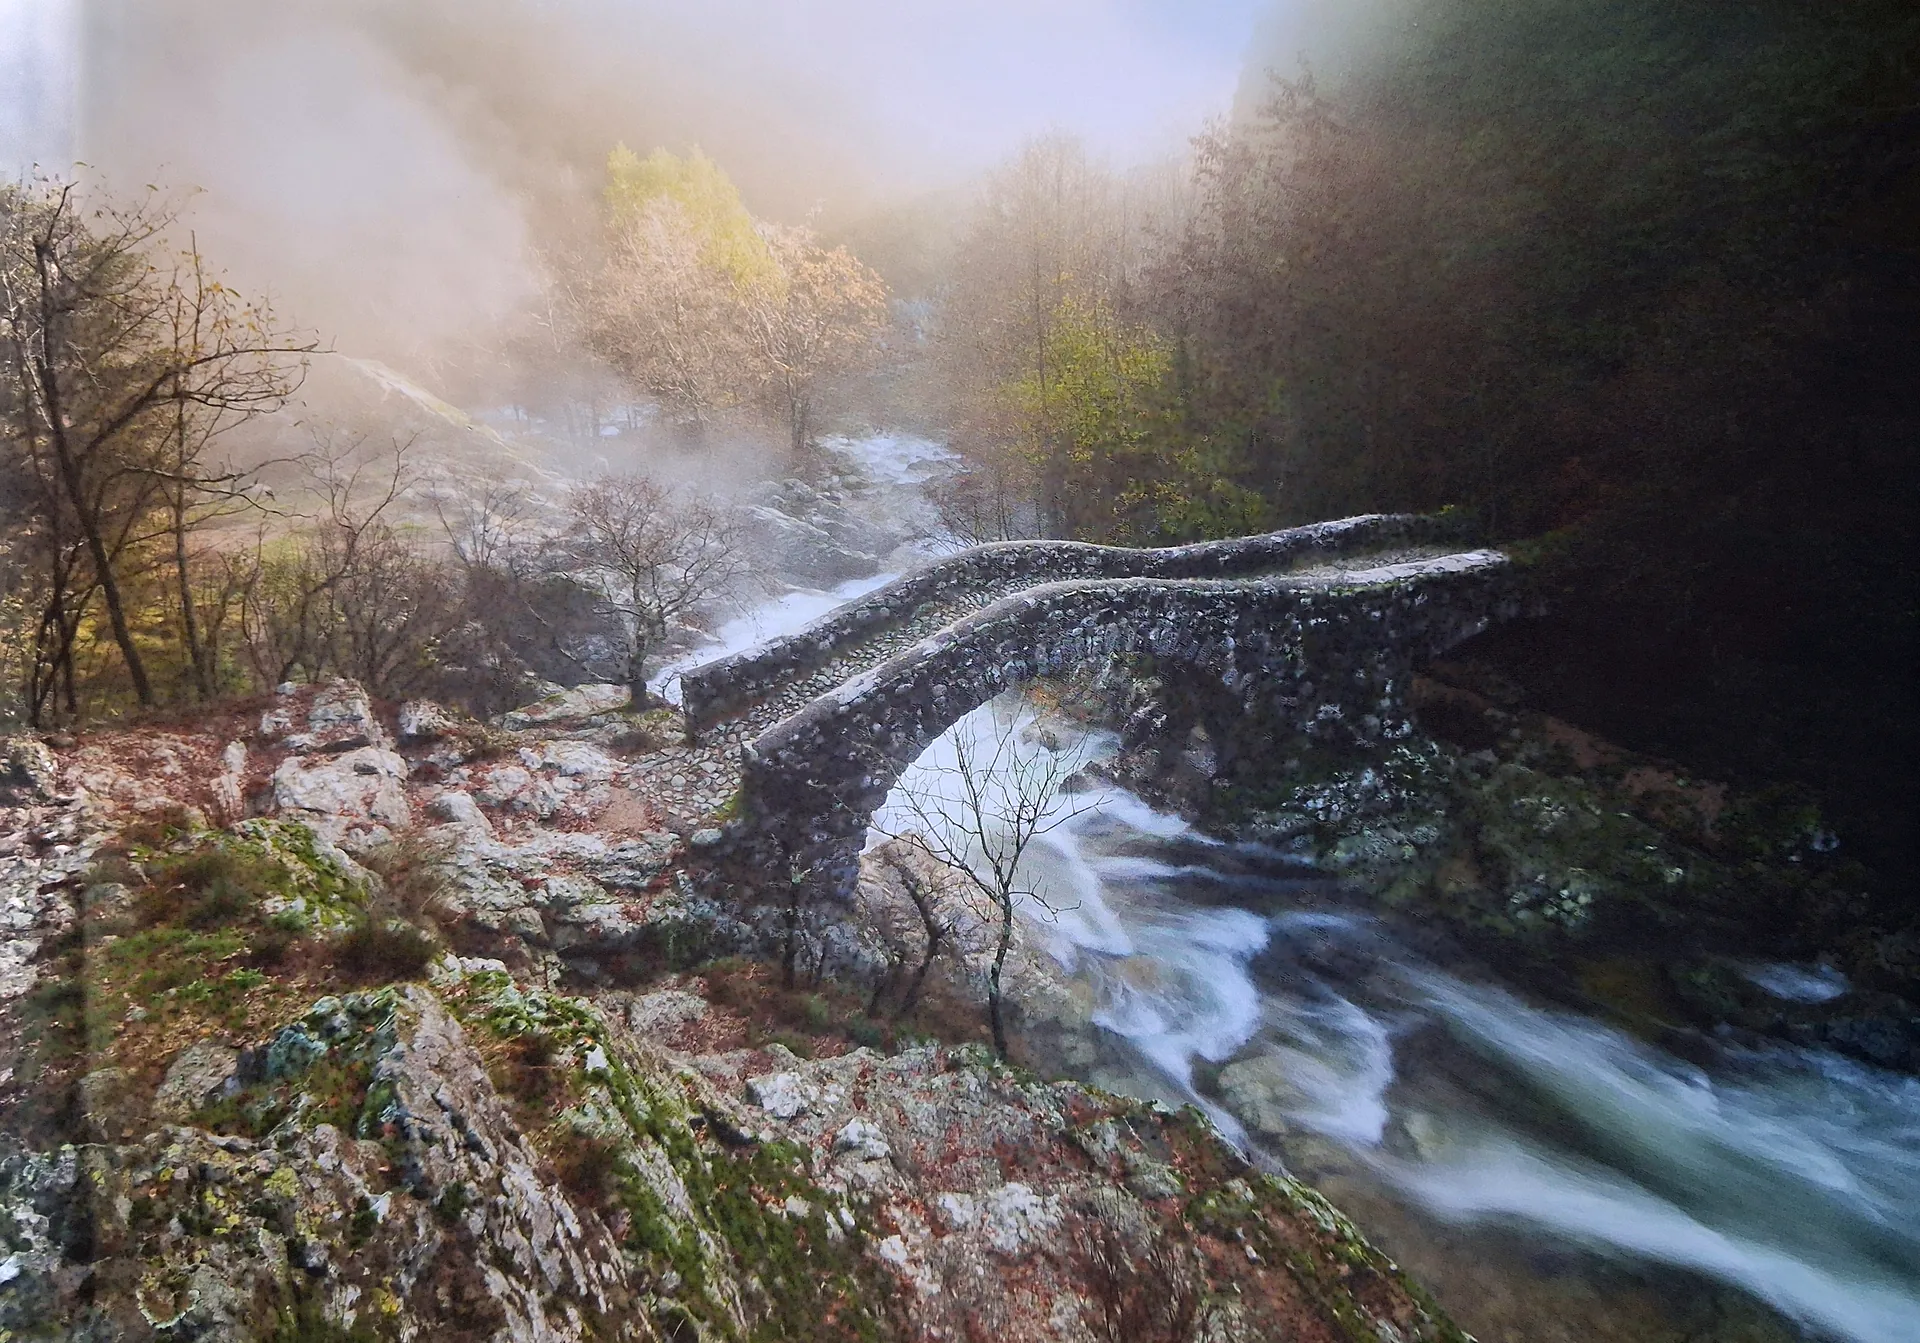
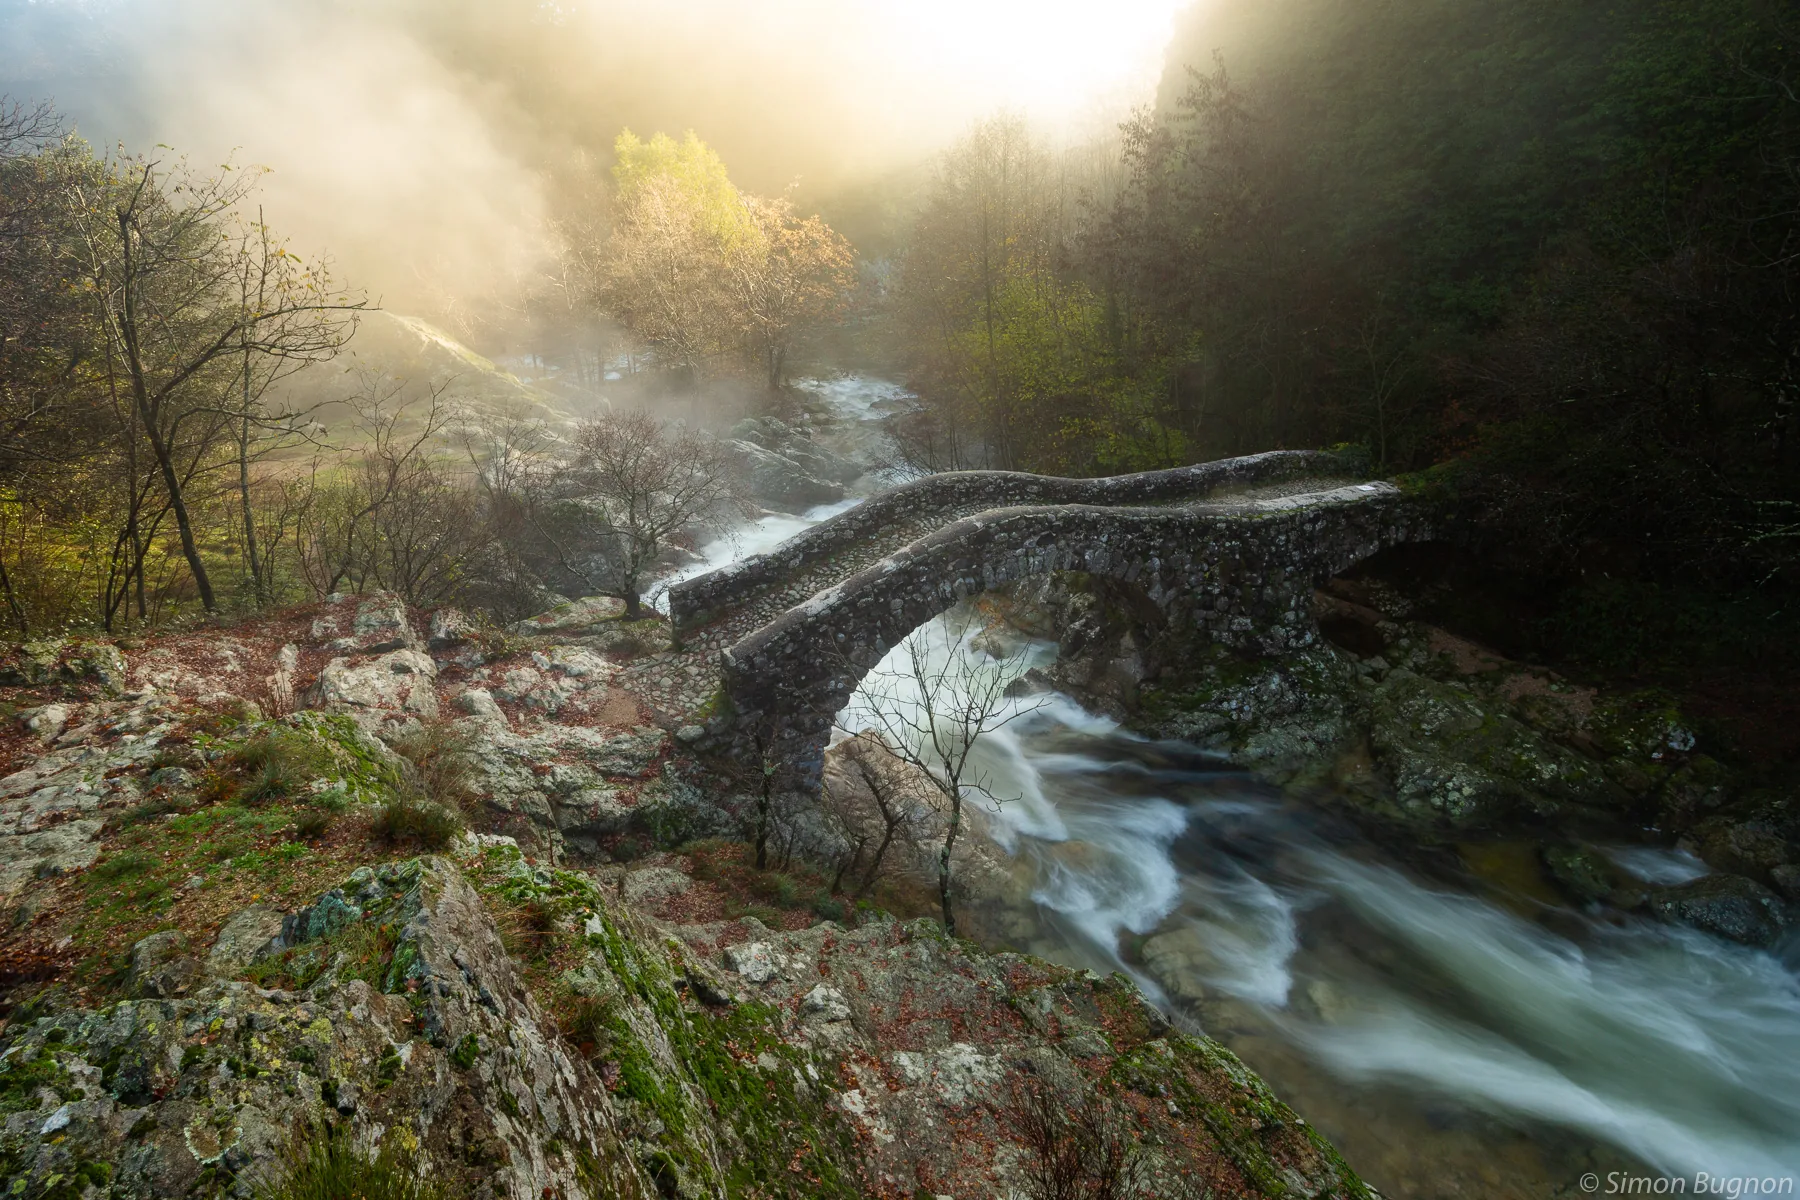
hero + texte

diff --git a/index.html b/index.html
@@ -28,9 +28,9 @@
     :root {
       --clay:    #C8A882;
       --clay-dk: #9C7A52;
-      --sand:    #F2EAE0;
-      --sand-dk: #E8DDD0;
-      --fog:     #F8F5F0;
+      --sand:    #F8F2E9;
+      --sand-dk: #F1E9DC;
+      --fog:     #FDFBF6;
       --moss:    #2AA7AF;
       --moss-dk: #138992;
       --ink:     #1F1A15;
@@ -50,7 +50,7 @@
     nav {
       position: fixed; inset: 0 0 auto 0; z-index: 200;
       height: 68px; display: flex; align-items: center;
-      background: rgba(248,245,240,.94);
+      background: rgba(253,251,246,.94);
       backdrop-filter: blur(10px);
       border-bottom: 1px solid var(--line);
       transition: box-shadow .3s;
@@ -145,8 +145,8 @@
       position: absolute;
       inset: 0;
       background:
-        linear-gradient(120deg, rgba(20,15,10,.78) 0%, rgba(20,15,10,.42) 55%, rgba(20,15,10,.15) 100%),
-        linear-gradient(to top, rgba(20,15,10,.55) 0%, transparent 45%);
+        linear-gradient(120deg, rgba(20,15,10,.55) 0%, rgba(20,15,10,.26) 55%, rgba(20,15,10,.06) 100%),
+        linear-gradient(to top, rgba(20,15,10,.48) 0%, transparent 45%);
     }
     .hero-body {
       position: relative;
@@ -445,6 +445,9 @@
     .val-item { background: var(--fog); border: 1px solid var(--line); border-radius: 4px; padding: 1.1rem 1.25rem; }
     .val-item h4 { font-size: .78rem; font-weight: 600; margin-bottom: .25rem; color: var(--moss-dk); }
     .val-item p { font-size: .74rem; color: var(--mid); line-height: 1.5; }
+    .form-list { margin-top: 1.75rem; list-style: none; display: flex; flex-direction: column; gap: .9rem; }
+    .form-list li { position: relative; padding-left: 1.6rem; font-size: .88rem; color: var(--mid); line-height: 1.7; }
+    .form-list li::before { content: ''; position: absolute; left: 0; top: .68em; width: 14px; height: 2px; background: linear-gradient(90deg, var(--moss), var(--clay)); }
 
     /* ── CONTACT ── */
     #contact { background: var(--fog); padding: 7rem 0; }
@@ -581,7 +584,7 @@
     </p>
   </div>
   <svg class="hero-wave" viewBox="0 0 1440 80" xmlns="http://www.w3.org/2000/svg" preserveAspectRatio="none">
-    <path d="M0,80 L0,48 Q240,0 480,32 Q720,64 960,22 Q1200,-18 1440,30 L1440,80Z" fill="#F2EAE0"/>
+    <path d="M0,80 L0,48 Q240,0 480,32 Q720,64 960,22 Q1200,-18 1440,30 L1440,80Z" fill="#F8F2E9"/>
   </svg>
 </section>
 
@@ -779,58 +782,17 @@
         <span class="lbl r">À propos</span>
         <h2 class="h2 r d1">Qui <em>suis-je ?</em></h2>
         <div class="bar r d2"></div>
-        <p class="body-t r d2">Avant d'être psychopraticienne, j'ai traversé le monde du théâtre, du clown et de la création collective, des espaces où le corps, l'émotion et le jeu apprennent à coexister. Ce parcours artistique a façonné ma façon d'accompagner : avec présence, douceur et une confiance profonde dans les ressources de chacun.</p>
-        <p class="body-t r d2">Ma pratique intègre différentes formes d'accompagnement, thérapeutiques, corporelles et créatives, parce que je crois qu'une transformation profonde passe par plusieurs portes à la fois.</p>
-
-        <div class="timeline r d2">
-          <div class="tl-item">
-            <span class="tl-yr">Théâtre</span>
-            <div class="tl-body">
-              <h4>École Actéon · Compagnie Frêne-en-ciel</h4>
-              <p>Formation comédienne et metteure en scène à Arles. Clown, théâtre-forum, direction d'une compagnie d'art pluridisciplinaire.</p>
-            </div>
-          </div>
-          <div class="tl-item">
-            <span class="tl-yr">Art-<br>thérapie</span>
-            <div class="tl-body">
-              <h4>Formation Art-thérapeute</h4>
-              <p>Pédagogies alternatives, communication non-violente. L'art et la création comme vecteurs de transformation et d'ancrage.</p>
-            </div>
-          </div>
-          <div class="tl-item">
-            <span class="tl-yr">Psycho-<br>prat.</span>
-            <div class="tl-body">
-              <h4>Formation Psychopraticienne · EMDR-DSA</h4>
-              <p>Un an de formation intégrative (hypnose incluse), puis bifurcation naturelle vers la désensibilisation des traumas.</p>
-            </div>
-          </div>
-          <div class="tl-item">
-            <span class="tl-yr">Breath-<br>work</span>
-            <div class="tl-body">
-              <h4>Breathwork Chamanique Healing</h4>
-              <p>Facilitatrice en respiration consciente. Sessions de groupe mensuelles co-animées, un souffle nouveau vers soi-même.</p>
-            </div>
-          </div>
-        </div>
-
-        <div class="val-grid r d3">
-          <div class="val-item">
-            <h4>Approche intégrative</h4>
-            <p>Plusieurs portes d'entrée pour toucher l'être entier : mental, corps, création.</p>
-          </div>
-          <div class="val-item">
-            <h4>Enfants &amp; adultes</h4>
-            <p>Un accompagnement adapté à chaque âge, chaque histoire, chaque rythme.</p>
-          </div>
-          <div class="val-item">
-            <h4>Sans appartenance requise</h4>
-            <p>Quelle que soit votre vécu ou votre parcours thérapeutique antérieur.</p>
-          </div>
-          <div class="val-item">
-            <h4>Cabinet à Bagnères</h4>
-            <p>Accompagnement en présentiel dans un cadre dédié, chaleureux et confidentiel.</p>
-          </div>
-        </div>
+        <h3 class="h3 r d2" style="font-size:1.4rem;margin-top:.5rem">Mon parcours de formation</h3>
+        <ul class="form-list r d2">
+          <li>En cours de formation en psychanalyse et psychothérapie intégrative (IF2PI, Corinne Vera Alexandre)</li>
+          <li>Formation en EMDR-DSA (Ahtma)</li>
+          <li>Formation en Breathwork (Eva Swan)</li>
+          <li>Diplôme d'État d'éducatrice de jeunes enfants</li>
+          <li>Formation à la pédagogie Waldorf en petite enfance</li>
+          <li>Formation Accompagnement par les personnages intérieurs (Fabien Lesage)</li>
+          <li>Formation en Communication Non Violente de Marshall Rosenberg (Muriel Kalfala)</li>
+          <li>Diplôme de psychogénéalogie (Betty Tutrice)</li>
+        </ul>
       </div>
     </div>
   </div>
@@ -958,7 +920,7 @@
 <!-- BOUTON SCROLL TOP -->
 <button id="scroll-top" aria-label="Revenir en haut">
   <svg viewBox="0 0 44 44" fill="none" width="44" height="44" xmlns="http://www.w3.org/2000/svg">
-    <circle cx="22" cy="22" r="20.5" fill="rgba(248,245,240,0.88)" stroke="rgba(19,137,146,0.28)" stroke-width="1"/>
+    <circle cx="22" cy="22" r="20.5" fill="rgba(253,251,246,0.88)" stroke="rgba(19,137,146,0.28)" stroke-width="1"/>
     <path d="M14.5,25.5 L22,18 L29.5,25.5" stroke="#138992" stroke-width="1.6" fill="none" stroke-linecap="round" stroke-linejoin="round"/>
   </svg>
 </button>